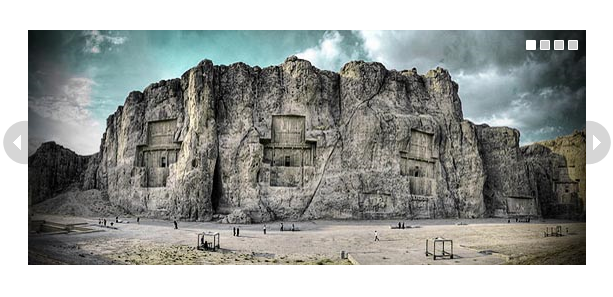
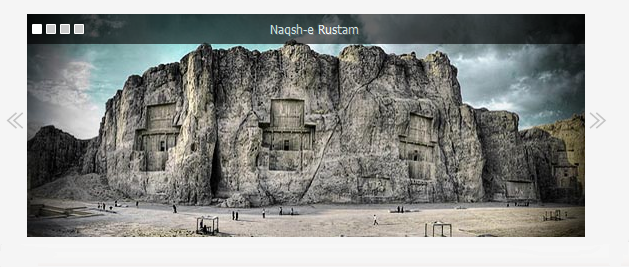
git-svn-id: https://plugins.svn.wordpress.org/tinyslider/trunk@421128 b8457f37-d9ea-0310-8a92-e5e31aec5664

diff --git a/style.css b/style.css
@@ -15,19 +15,19 @@
 }
 
 #slideleft {
-  background:url(img/icons.gif) -50px -265px no-repeat;
+  background:  url(img/left.png)  no-repeat center;
 }
 
 #slideleft:hover {
-  background-position:-0 -265px;
+  background:  url(img/left_hover.png)  no-repeat center;
 }
 
 #slideright {
-  background:url(img/icons.gif) 0 90px no-repeat;
+  background:url(img/right.png) no-repeat center;
 }
 
 #slideright:hover {
-  background-position:-50px 90px;
+  background:url(img/right_hover.png) no-repeat center;
 }
 
 #slider {
@@ -50,6 +50,17 @@
   float:left;
   width:558px;
   height:235px;
+}
+
+div.descript_slide{
+  background: #000000;
+  opacity: 0.6;
+  padding: 8px;
+  position: absolute;
+  text-align: center;
+  color: #FFFFFF;
+  width: 558px;
+  text-shadow: 1px 1px #333333;
 }
 
 .pagination {

diff --git a/tinyslider.php b/tinyslider.php
@@ -3,7 +3,7 @@
 Plugin Name: Tiny Slider
 Plugin URI: http://iran98.org/category/wordpress/tinyslider/
 Description: jQuery slide show for wordpress.
-Version: 1.0
+Version: 2.0
 Author: Mostafa Soufi
 Author URI: http://iran98.org/
 License: GPL2
@@ -28,7 +28,11 @@ function tinyslider_option() {
 	register_setting('slider_option', 'slide_alt_3');
 	register_setting('slider_option', 'slide_image_4');
 	register_setting('slider_option', 'slide_link_4');
-	register_setting('slider_option', 'slide_alt_4');	
+	register_setting('slider_option', 'slide_alt_4');
+	register_setting('slider_option', 'slide_width');
+	register_setting('slider_option', 'slide_height');
+	register_setting('slider_option', 'slider_button');
+	register_setting('slider_option', 'slide_secound');
 	}
 	add_action('admin_init', 'tinyslider_option');
 
@@ -39,82 +43,104 @@ function tinyslider_meta() {
 	add_action('wp_head', 'tinyslider_meta');
 
 	function tinyslider() { ?>
+		<style>
+		#slider, #slider li{
+			width: <?php echo get_option('slide_width'); ?>px;
+			height: <?php echo get_option('slide_height'); ?>px;
+		}
+		.sliderbutton{
+			height: <?php echo get_option('slide_height'); ?>px;
+		}
+		div.descript_slide{
+			width: <?php echo get_option('slide_width'); ?>px;
+		}
+		</style>
 		<div id='slide_wrapper'>
 			<div id='slide_container'>
+				<?php if(get_option('slider_button') == 'yes') {?>
 				<div class='sliderbutton' id='slideleft' onclick='slideshow.move(-1)'></div>
+				<?php } ?>
+				<?php /* Condition for empty slide */
+				// Slide Content #1
+					$get_slide_image_1 = get_option('slide_image_1');
+				if (!$get_slide_image_1) {
+					$get_slide_image_1 = get_bloginfo('url')."/wp-content/plugins/tinyslider/img/tomb_of_xerxes.jpg"; }
+
+					$get_slide_link_1 = get_option('slide_link_1');
+				if (!$get_slide_link_1) {
+					$get_slide_link_1 = "http://en.wikipedia.org/wiki/Naqsh-e_Rustam"; }
+
+					$get_slide_alt_1 = get_option('slide_alt_1');
+				if (!$get_slide_alt_1) {
+					$get_slide_alt_1 = "Naqsh-e Rustam"; }
+
+				// Slide Content #2
+					$get_slide_image_2 = get_option('slide_image_2');
+				if (!$get_slide_image_2) {
+					$get_slide_image_2 = get_bloginfo('url')."/wp-content/plugins/tinyslider/img/i_am_cyrus,_achaemenid_king_-_pasargadae.jpg"; }
+
+					$get_slide_link_2 = get_option('slide_link_2');
+				if (!$get_slide_link_2) {
+					$get_slide_link_2 = "http://en.wikipedia.org/wiki/Pasargadae"; }
+
+					$get_slide_alt_2 = get_option('slide_alt_2');
+				if (!$get_slide_alt_2) {
+					$get_slide_alt_2 = "Pasargadae"; }
+
+				// Slide Content #3
+					$get_slide_image_3 = get_option('slide_image_3');
+				if (!$get_slide_image_3) {
+					$get_slide_image_3 = get_bloginfo('url')."/wp-content/plugins/tinyslider/img/rostam.jpg"; }
+
+					$get_slide_link_3 = get_option('slide_link_3');
+				if (!$get_slide_link_3) {
+					$get_slide_link_3 = "http://en.wikipedia.org/wiki/Rostam"; }
+
+					$get_slide_alt_3 = get_option('slide_alt_3');
+				if (!$get_slide_alt_3) {
+					$get_slide_alt_3 = "Rostam"; }
+
+				// Slide Content #4
+					$get_slide_image_4 = get_option('slide_image_4');
+				if (!$get_slide_image_4) {
+					$get_slide_image_4 = get_bloginfo('url')."/wp-content/plugins/tinyslider/img/persia_cyrus2_world3.jpg"; }
+
+					$get_slide_link_4 = get_option('slide_link_4');
+				if (!$get_slide_link_4) {
+					$get_slide_link_4 = "http://bs.wikipedia.org/wiki/Cyrus_Veliki"; }
+
+					$get_slide_alt_4 = get_option('slide_alt_4');
+				if (!$get_slide_alt_4) {
+					$get_slide_alt_4 = "Cyrus Veliki"; }
+				?>						
 				<div id='slider'>
 					<ul>
 						<li>
-							<?php
-								$get_slide_image_1 = get_option('slide_image_1');
-							if (!$get_slide_image_1) {
-								$get_slide_image_1 = get_bloginfo('url')."/wp-content/plugins/tinyslider/img/tomb_of_xerxes.jpg"; }
-
-								$get_slide_link_1 = get_option('slide_link_1');
-							if (!$get_slide_link_1) {
-								$get_slide_link_1 = "http://en.wikipedia.org/wiki/Naqsh-e_Rustam"; }
-
-								$get_slide_alt_1 = get_option('slide_alt_1');
-							if (!$get_slide_alt_1) {
-								$get_slide_alt_1 = "Naqsh-e Rustam"; }
-							?>
+							<div class="descript_slide"><?php echo $get_slide_alt_1; ?></div>
 							<a href="<?php echo $get_slide_link_1 ?>">
-							<img src="<?php echo $get_slide_image_1; ?>" width="558" height="235" alt="<?php echo $get_slide_alt_1 ?>" /></a>
+							<img src="<?php echo $get_slide_image_1; ?>" width="<?php echo get_option('slide_width'); ?>" height="<?php echo get_option('slide_height'); ?>" alt="<?php echo $get_slide_alt_1 ?>" /></a>
 						</li>
 						<li>
-							<?php
-								$get_slide_image_2 = get_option('slide_image_2');
-							if (!$get_slide_image_2) {
-								$get_slide_image_2 = get_bloginfo('url')."/wp-content/plugins/tinyslider/img/i_am_cyrus,_achaemenid_king_-_pasargadae.jpg"; }
-
-								$get_slide_link_2 = get_option('slide_link_2');
-							if (!$get_slide_link_2) {
-								$get_slide_link_2 = "http://en.wikipedia.org/wiki/Pasargadae"; }
-
-								$get_slide_alt_2 = get_option('slide_alt_2');
-							if (!$get_slide_alt_2) {
-								$get_slide_alt_2 = "Pasargadae"; }
-							?>
+							<div class="descript_slide"><?php echo $get_slide_alt_2; ?></div>
 							<a href="<?php echo $get_slide_link_2; ?>">
-							<img src="<?php echo $get_slide_image_2; ?>" width="558" height="235" alt="<?php echo $get_slide_alt_2; ?>" /></a>
+							<img src="<?php echo $get_slide_image_2; ?>" width="<?php echo get_option('slide_width'); ?>" height="<?php echo get_option('slide_height'); ?>" alt="<?php echo $get_slide_alt_2; ?>" /></a>
 						</li>
 						<li>
-							<?php
-								$get_slide_image_3 = get_option('slide_image_3');
-							if (!$get_slide_image_3) {
-								$get_slide_image_3 = get_bloginfo('url')."/wp-content/plugins/tinyslider/img/rostam.jpg"; }
+							<div class="descript_slide"><?php echo $get_slide_alt_3; ?></div>
 
-								$get_slide_link_3 = get_option('slide_link_3');
-							if (!$get_slide_link_3) {
-								$get_slide_link_3 = "http://en.wikipedia.org/wiki/Rostam"; }
-
-								$get_slide_alt_3 = get_option('slide_alt_3');
-							if (!$get_slide_alt_3) {
-								$get_slide_alt_3 = "Rostam"; }
-						?>
 							<a href="<?php echo $get_slide_link_3; ?>">
-							<img src="<?php echo $get_slide_image_3; ?>" width="558" height="235" alt="<?php echo $get_slide_alt_3; ?>" /></a>
+							<img src="<?php echo $get_slide_image_3; ?>" width="<?php echo get_option('slide_width'); ?>" height="<?php echo get_option('slide_height'); ?>" alt="<?php echo $get_slide_alt_3; ?>" /></a>
 						</li>
 						<li>
-							<?php
-								$get_slide_image_4 = get_option('slide_image_4');
-							if (!$get_slide_image_4) {
-								$get_slide_image_4 = get_bloginfo('url')."/wp-content/plugins/tinyslider/img/persia_cyrus2_world3.jpg"; }
-
-								$get_slide_link_4 = get_option('slide_link_4');
-							if (!$get_slide_link_4) {
-								$get_slide_link_4 = "http://bs.wikipedia.org/wiki/Cyrus_Veliki"; }
-
-								$get_slide_alt_4 = get_option('slide_alt_4');
-							if (!$get_slide_alt_4) {
-								$get_slide_alt_4 = "Cyrus Veliki"; }
-							?>
+							<div class="descript_slide"><?php echo $get_slide_alt_4; ?></div>
 							<a href="<?php echo $get_slide_link_4; ?>">
-							<img src="<?php echo $get_slide_image_4; ?>" width="558" height="235" alt="<?php echo $get_slide_alt_4; ?>" /></a>
+							<img src="<?php echo $get_slide_image_4; ?>" width="<?php echo get_option('slide_width'); ?>" height="<?php echo get_option('slide_height'); ?>" alt="<?php echo $get_slide_alt_4; ?>" /></a>
 						</li>						
 					</ul>
 				</div>
+				<?php if(get_option('slider_button') == 'yes') {?>
 				<div class='sliderbutton' id='slideright' onclick='slideshow.move(1)'></div>
+				<?php } ?>
 				<ul id='pagination' class='pagination'>
 					<li onclick='slideshow.pos(0)'></li>
 					<li onclick='slideshow.pos(1)'></li>
@@ -126,7 +152,7 @@ function tinyslider_meta() {
 		<script type='text/javascript'>
 		var slideshow=new TINY.slider.slide('slideshow',{
 			id:'slider',
-			auto:4,
+			auto:<?php if(get_option('slide_secound')) { echo get_option('slide_secound'); } else { echo "4"; }?>,
 			resume:false,
 			vertical:false,
 			navid:'pagination',
@@ -184,6 +210,42 @@ function tinyslider_menupage() {
 				<td><input type="text" name="slide_link_4" value="<?php echo get_option('slide_link_4'); ?>" size="60" style="direction: ltr;"/></td>
 				<td><input type="text" name="slide_alt_4" value="<?php echo get_option('slide_alt_4'); ?>" size="50"/></td>
 			</tr>
+			
+			<tr><th><h3><?php _e('Slide Setting', 'tinyslider'); ?></h3></th></tr>
+			<tr>
+				<td><?php _e('Width Slider', 'tinyslider'); ?>:</td>
+				<td>
+					<input type="text" name="slide_width" value="<?php echo get_option('slide_width'); ?>" size="10" style="direction: ltr;"/>
+					<?php _e('Pixel', 'tinyslider'); ?>
+				</td>
+			</tr>
+
+			<tr>
+				<td><?php _e('Height Slider', 'tinyslider'); ?>:</td>
+				<td>
+					<input type="text" name="slide_height" value="<?php echo get_option('slide_height'); ?>" size="10" style="direction: ltr;"/>
+					<?php _e('Pixel', 'tinyslider'); ?>
+				</td>
+			</tr>
+
+			<tr>
+				<td><?php _e('Show Slider Button', 'tinyslider'); ?>:</td>
+				<td>
+					<input name="slider_button" id="yes" type="radio" value="yes" <?php checked( 'yes', get_option('slider_button') ); ?> />
+					<label for="yes"><?php _e('Yes', 'tinyslider'); ?></label>
+					&nbsp;
+					<input name="slider_button" id="no" type="radio" value="no" <?php checked( 'no', get_option('slider_button') ); ?> />
+					<label for="no"><?php _e('No', 'tinyslider'); ?></label>
+				</td>
+			</tr>
+
+			<tr>
+				<td><?php _e('Departure time', 'tinyslider'); ?>:</td>
+				<td>
+					<input type="text" name="slide_secound" value="<?php echo get_option('slide_secound'); ?>" size="10" style="direction: ltr;"/>
+					<?php _e('Secound', 'tinyslider'); ?>
+				</td>
+			</tr>			
 		</table>
 
 		<p class="submit">
